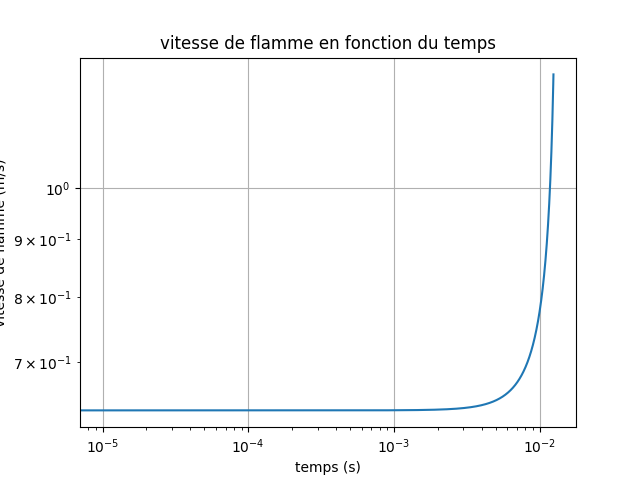
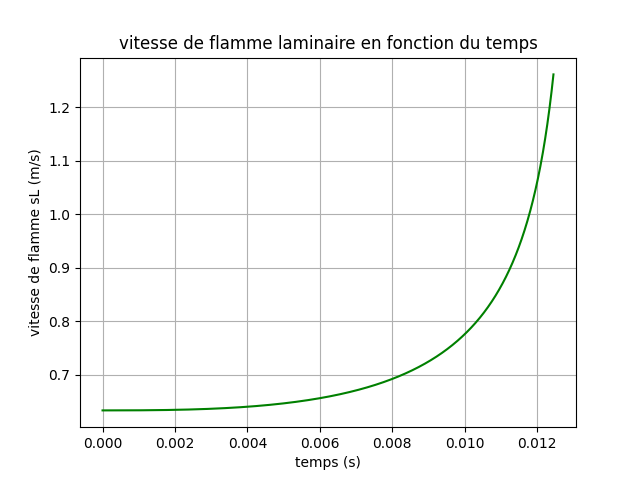
comb_lam_fini

diff --git a/combustion/combustion.py b/combustion/combustion.py
@@ -89,7 +89,8 @@ print("masse volumique des gaz brûlés (kg/m^3) = ", rho_gb)        # masse vol
 i=0                      # compteur d'itérations
 sL0 = sL0_livre          # à changer si on veut celle du LIVRE ou de la THESE
 T_gf_t = T1              # température des gaz frais (avant la combustion)
-T_gb_t = 2839.52         # température de fin de combustion (calculée pour isochore)
+#T_gb_t = 2839.52         # température de fin de combustion (calculée pour isochore)
+T_gb_t = 2533.11 + 1.03 * (T_gf_t - T0)
 P_t = P1                 # pression à l'instant t
 r_t = R0                 # m rayon initial de la boule
 sL_t = sL0*(T_gf_t/T0)**alpha * (P_t/P0)**beta               # vitesse de flamme à l'instant t
@@ -97,6 +98,8 @@ vb_t = 4/3*np.pi*r_t**3  # m^3 volume de la boule
 masse_gb = vb_t*rho_gb              # masse des gaz brûlés 
 masse_gf = (V - vb_t)*rho_gf        # masse des gaz frais avec comme volume le cylindre du piston moins la boule
 masse_tot = masse_gb + masse_gf                 # masse totale des gaz (qui va rester constante au cours de la combustion)
+rho_gb = P_t / (r_gb * T_gb_t)
+print("masse volumique des gaz brûlés (kg/m^3) = ", rho_gb)        # masse volumique des gaz brûlés à T1 et P1
 print("masse gaz brûlés (kg)= ", masse_gb)
 print("masse gaz frais (kg)= ", masse_gf)
 print("masse totale (kg)= ", masse_tot)
@@ -187,7 +190,7 @@ print('Angle nécessaire à la combustion (nominal) : ' + str(angle_nominal))
 
 # Tracé des courbes
 plt.figure(1)
-plt.loglog(t_tot, P_tot)
+plt.plot(t_tot, P_tot, color = 'blue')
 plt.xlabel('temps (s)')
 plt.ylabel('pression (Pa)')
 plt.grid()
@@ -195,7 +198,7 @@ plt.title('pression en fonction du temps')
 plt.savefig('pression.png')
 
 plt.figure(2)
-plt.loglog(t_tot, T_gb_tot)
+plt.plot(t_tot, T_gb_tot, color = 'brown')
 plt.xlabel('temps (s)')
 plt.ylabel('température des gaz brûlés (K)')
 plt.title('température des gaz brûlés en fonction du temps')
@@ -203,7 +206,7 @@ plt.grid()
 plt.savefig('temp_gb.png')
 
 plt.figure(3)
-plt.loglog(t_tot, T_gf_tot)
+plt.plot(t_tot, T_gf_tot, color = 'red')
 plt.xlabel('temps (s)')
 plt.ylabel('température des gaz frais (K)')
 plt.title('température des gaz frais en fonction du temps')
@@ -227,9 +230,9 @@ ax.xaxis.get_major_formatter().set_powerlimits((0, 0))  # Force l'affichage scie
 plt.savefig('masse_loglog.png')
 
 plt.figure(5)
-plt.plot(t_tot, masse_gf_tot, label='gaz frais')
-plt.plot(t_tot, masse_gb_tot, label='gaz brûlés')
-plt.plot(t_tot, masse_total, label='total')
+plt.plot(t_tot, masse_gf_tot, label='gaz frais',color='orange')
+plt.plot(t_tot, masse_gb_tot, label='gaz brûlés',color='brown')
+plt.plot(t_tot, masse_total, label='total', color = 'black')
 plt.xlabel('temps (s)')
 plt.ylabel('masse des gaz (kg)')
 plt.title('masse des gaz en fonction du temps')
@@ -244,7 +247,7 @@ plt.savefig('masse.png')
 
 
 plt.figure(6)
-plt.loglog([t_tot[i]*1000 for i in range(len(t_tot))], [r_tot[i]*1000 for i in range(len(r_tot))])
+plt.plot([t_tot[i]*1000 for i in range(len(t_tot))], [r_tot[i]*1000 for i in range(len(r_tot))], color = "black")
 plt.xlabel('temps (ms)')
 plt.ylabel('rayon de la boule (mm)')
 plt.title('rayon de la boule en fonction du temps')
@@ -252,10 +255,10 @@ plt.grid()
 plt.savefig('rayon.png')
 
 plt.figure(7)
-plt.loglog(t_tot, sL_tot)
+plt.plot(t_tot, sL_tot, color = 'green')
 plt.xlabel('temps (s)')
-plt.ylabel('vitesse de flamme (m/s)')
-plt.title('vitesse de flamme en fonction du temps')
+plt.ylabel('vitesse de flamme sL (m/s)')
+plt.title('vitesse de flamme laminaire en fonction du temps')
 plt.grid()
 plt.savefig('vitesse_flamme.png')
 
@@ -266,5 +269,28 @@ plt.ylabel('vitesse de flamme (m/s)')
 plt.title('vitesse de flamme en fonction du rayon de la boule')
 plt.grid()
 plt.savefig('vitesse_flamme_rayon.png')
+
+
+plt.figure(9)
+plt.plot(t_tot, rho_gf_tot, label='gaz frais', color='orange')
+plt.xlabel('temps (s)')
+plt.ylabel('masse volumique des gaz frais (kg)')
+plt.title('masse volumique des gaz frais en fonction du temps')
+plt.legend()
+plt.grid()
+plt.savefig('rho_gf.png')
+
+
+
+
+plt.figure(10)
+plt.plot(t_tot, rho_gb_tot, label='gaz brûlés', color='brown')
+plt.xlabel('temps (s)')
+plt.ylabel('masse volumique des gaz brûles (kg)')
+plt.title('masse volumique des gaz brûles en fonction du temps')
+plt.legend()
+plt.grid()
+plt.savefig('rho_gb.png')
+
 
 plt.show()

diff --git a/combustion/comb_turb/calcul_turb.py b/combustion/comb_turb/calcul_turb.py
@@ -1,0 +1,11 @@
+import numpy as np
+from math import *
+L 
+u_fluct
+sL0 = 0.463     # m/s
+k = 
+cp_mean = 
+rho_gb = 2.39
+
+delta_l = 4.6 * k / (cp_mean * rho_gb * sL0)
+
